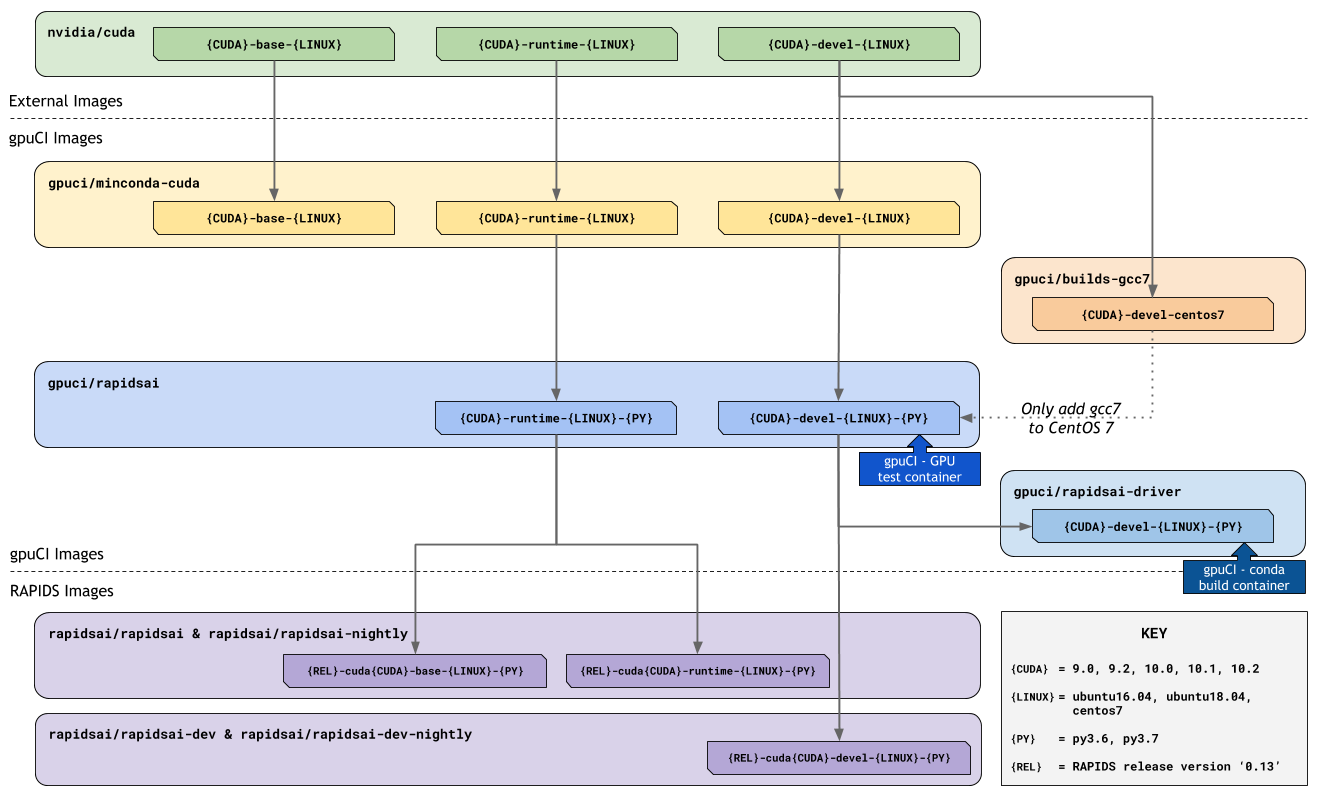
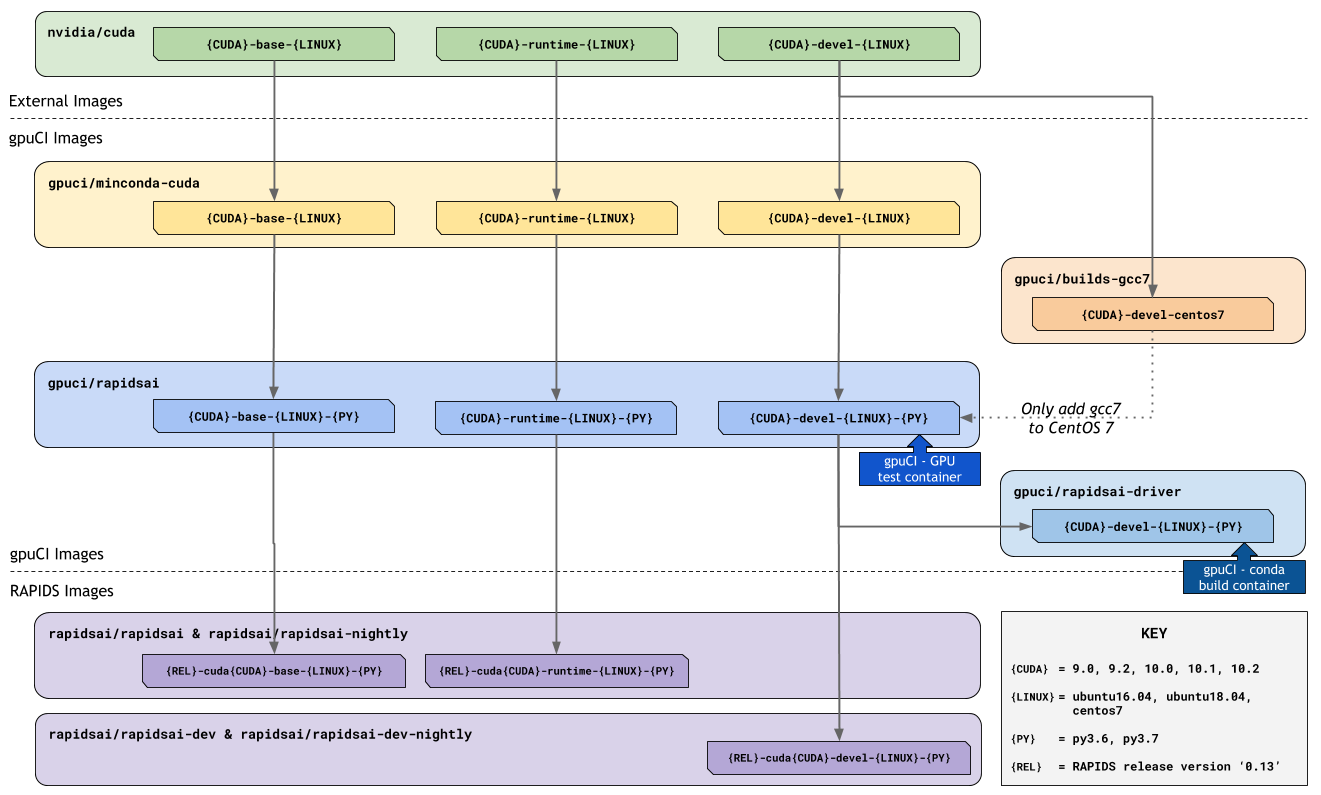
DOC Update to reflect changes to rapidsai image

Changed region(s): [[0.0931, 0.7849, 0.6518, 0.8755], [0.0931, 0.483, 0.3104, 0.5736], [0.3104, 0.6642, 0.5276, 0.6943]]

diff --git a/README.md b/README.md
@@ -78,8 +78,8 @@ The `gpuci/rapidsai` images serve different purposed based on their `CUDA_TYPE`:
 - `devel` - image types are used in gpuCI on nodes with [NVIDIA Container Toolkit](https://github.com/NVIDIA/nvidia-docker)
 installed for running tests with GPUs. They are also used by the RAPIDS `devel`
 release images.
-- `runtime` - image types are used by RAPIDS `base` and `runtime` release
-images.
+- `base` & `runtime` - image types are used by their respective RAPIDS `base`
+and `runtime` release images.
 
 [`gpuci/rapidsai`](https://hub.docker.com/r/gpuci/rapidsai-base/tags)
     [![Build Status](https://gpuci.gpuopenanalytics.com/buildStatus/icon?job=docker%2Fdockerhub-gpuci%2Frapidsai-base)](https://gpuci.gpuopenanalytics.com/view/gpuCI%20docker-builds/job/docker/job/dockerhub-gpuci/job/rapidsai-base/)
@@ -93,7 +93,7 @@ images.
   - Tags - `${CUDA_VER}-${CUDA_TYPE}-${LINUX_VER}-py${PYTHON_VER}`
     - Supports these options
       - `${CUDA_VER}` - `10.0`, `10.1`, `10.2`
-      - `${CUDA_TYPE}` - `runtime`, `devel`
+      - `${CUDA_TYPE}` - `base`, `runtime`, `devel`
       - `${LINUX_VER}` - `ubuntu16.04`, `ubuntu18.04`, `centos7`
       - `${PYTHON_VER}` - `3.6`, `3.7`
 
@@ -127,7 +127,7 @@ Listed in order of builds and deps
     - Purpose
       - Builds gcc7 from source on CentOS 7
       - Used by CentOS 7 images during `gpuci/miniconda-cuda` build to install gcc7 without building
-    - Tags - `{CUDA_VERSION}-{CUDA_TYPE}-{LINUX_VERSION}`
+    - Tags - `{CUDA_VER}-{CUDA_TYPE}-{LINUX_VER}`
 2.  [`gpuci/miniconda-cuda`](https://hub.docker.com/r/gpuci/miniconda-cuda/tags)
     [![Build Status](https://gpuci.gpuopenanalytics.com/buildStatus/icon?job=docker%2Fdockerhub-gpuci%2Fgpuci-miniconda-cuda)](https://gpuci.gpuopenanalytics.com/view/gpuCI%20docker-builds/job/docker/job/dockerhub-gpuci/job/gpuci-miniconda-cuda/)
     - From - `nvidia/cuda`
@@ -135,7 +135,7 @@ Listed in order of builds and deps
       - Contains CUDA + miniconda installed
       - Activates the `base` environment on launch
       - Serves as a base container for community and gpuCI users to build their own custom image
-    - Tags - `{CUDA_VERSION}-{CUDA_TYPE}-{LINUX_VERSION}`
+    - Tags - `{CUDA_VER}-{CUDA_TYPE}-{LINUX_VER}`
 3.  [`gpuci/miniconda-cuda-rapidsenv`](https://hub.docker.com/r/gpuci/miniconda-cuda-rapidsenv/tags)
     [![Build Status](https://gpuci.gpuopenanalytics.com/buildStatus/icon?job=docker%2Fdockerhub-gpuci%2Fgpuci-miniconda-cuda-rapidsenv)](https://gpuci.gpuopenanalytics.com/view/gpuCI%20docker-builds/job/docker/job/dockerhub-gpuci/job/gpuci-miniconda-cuda-rapidsenv/)
     - From - `gpuci/miniconda-cuda`
@@ -145,4 +145,4 @@ Listed in order of builds and deps
         - This is to help ensure that when installing from `conda-forge` we get the correct ABI pkgs
       - Activates the `rapids` environment on launch
       - Serves as a base container for all RAPIDS images
-    - Tags - `{CUDA_VERSION}-{CUDA_TYPE}-{LINUX_VERSION}-py{PYTHON_VERSION}`
+    - Tags - `{CUDA_VER}-{CUDA_TYPE}-{LINUX_VER}-py{PYTHON_VERSION}`
